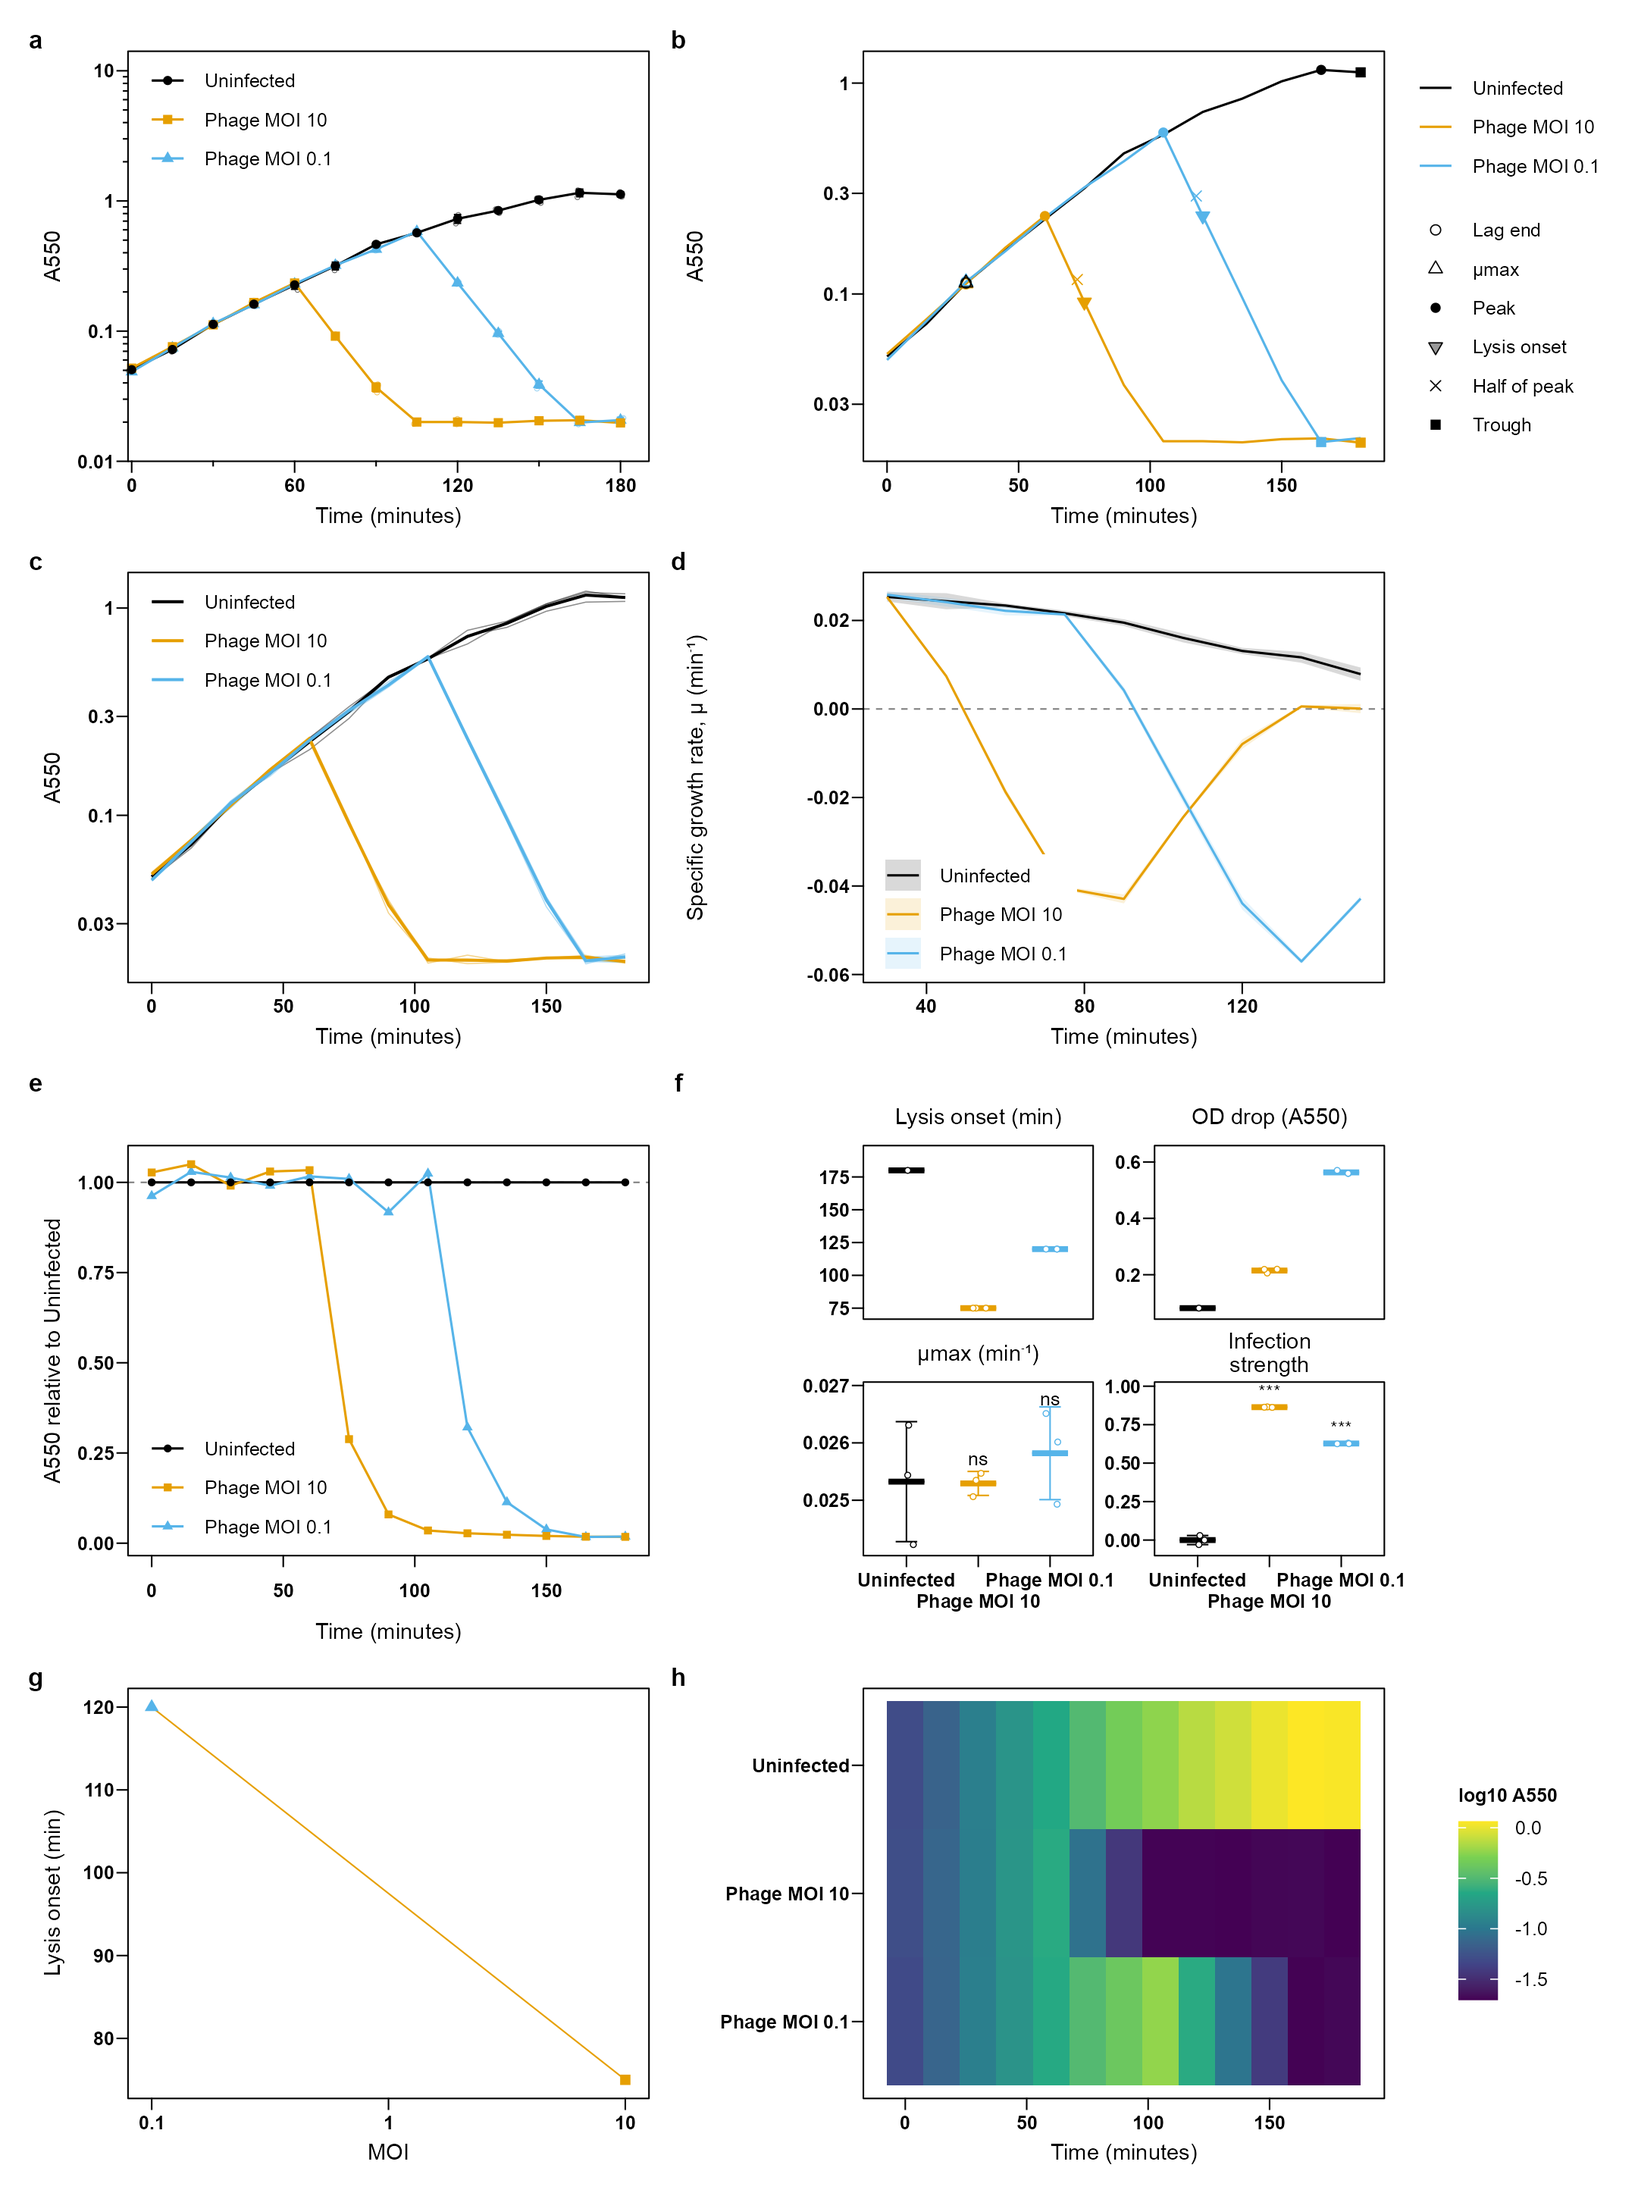
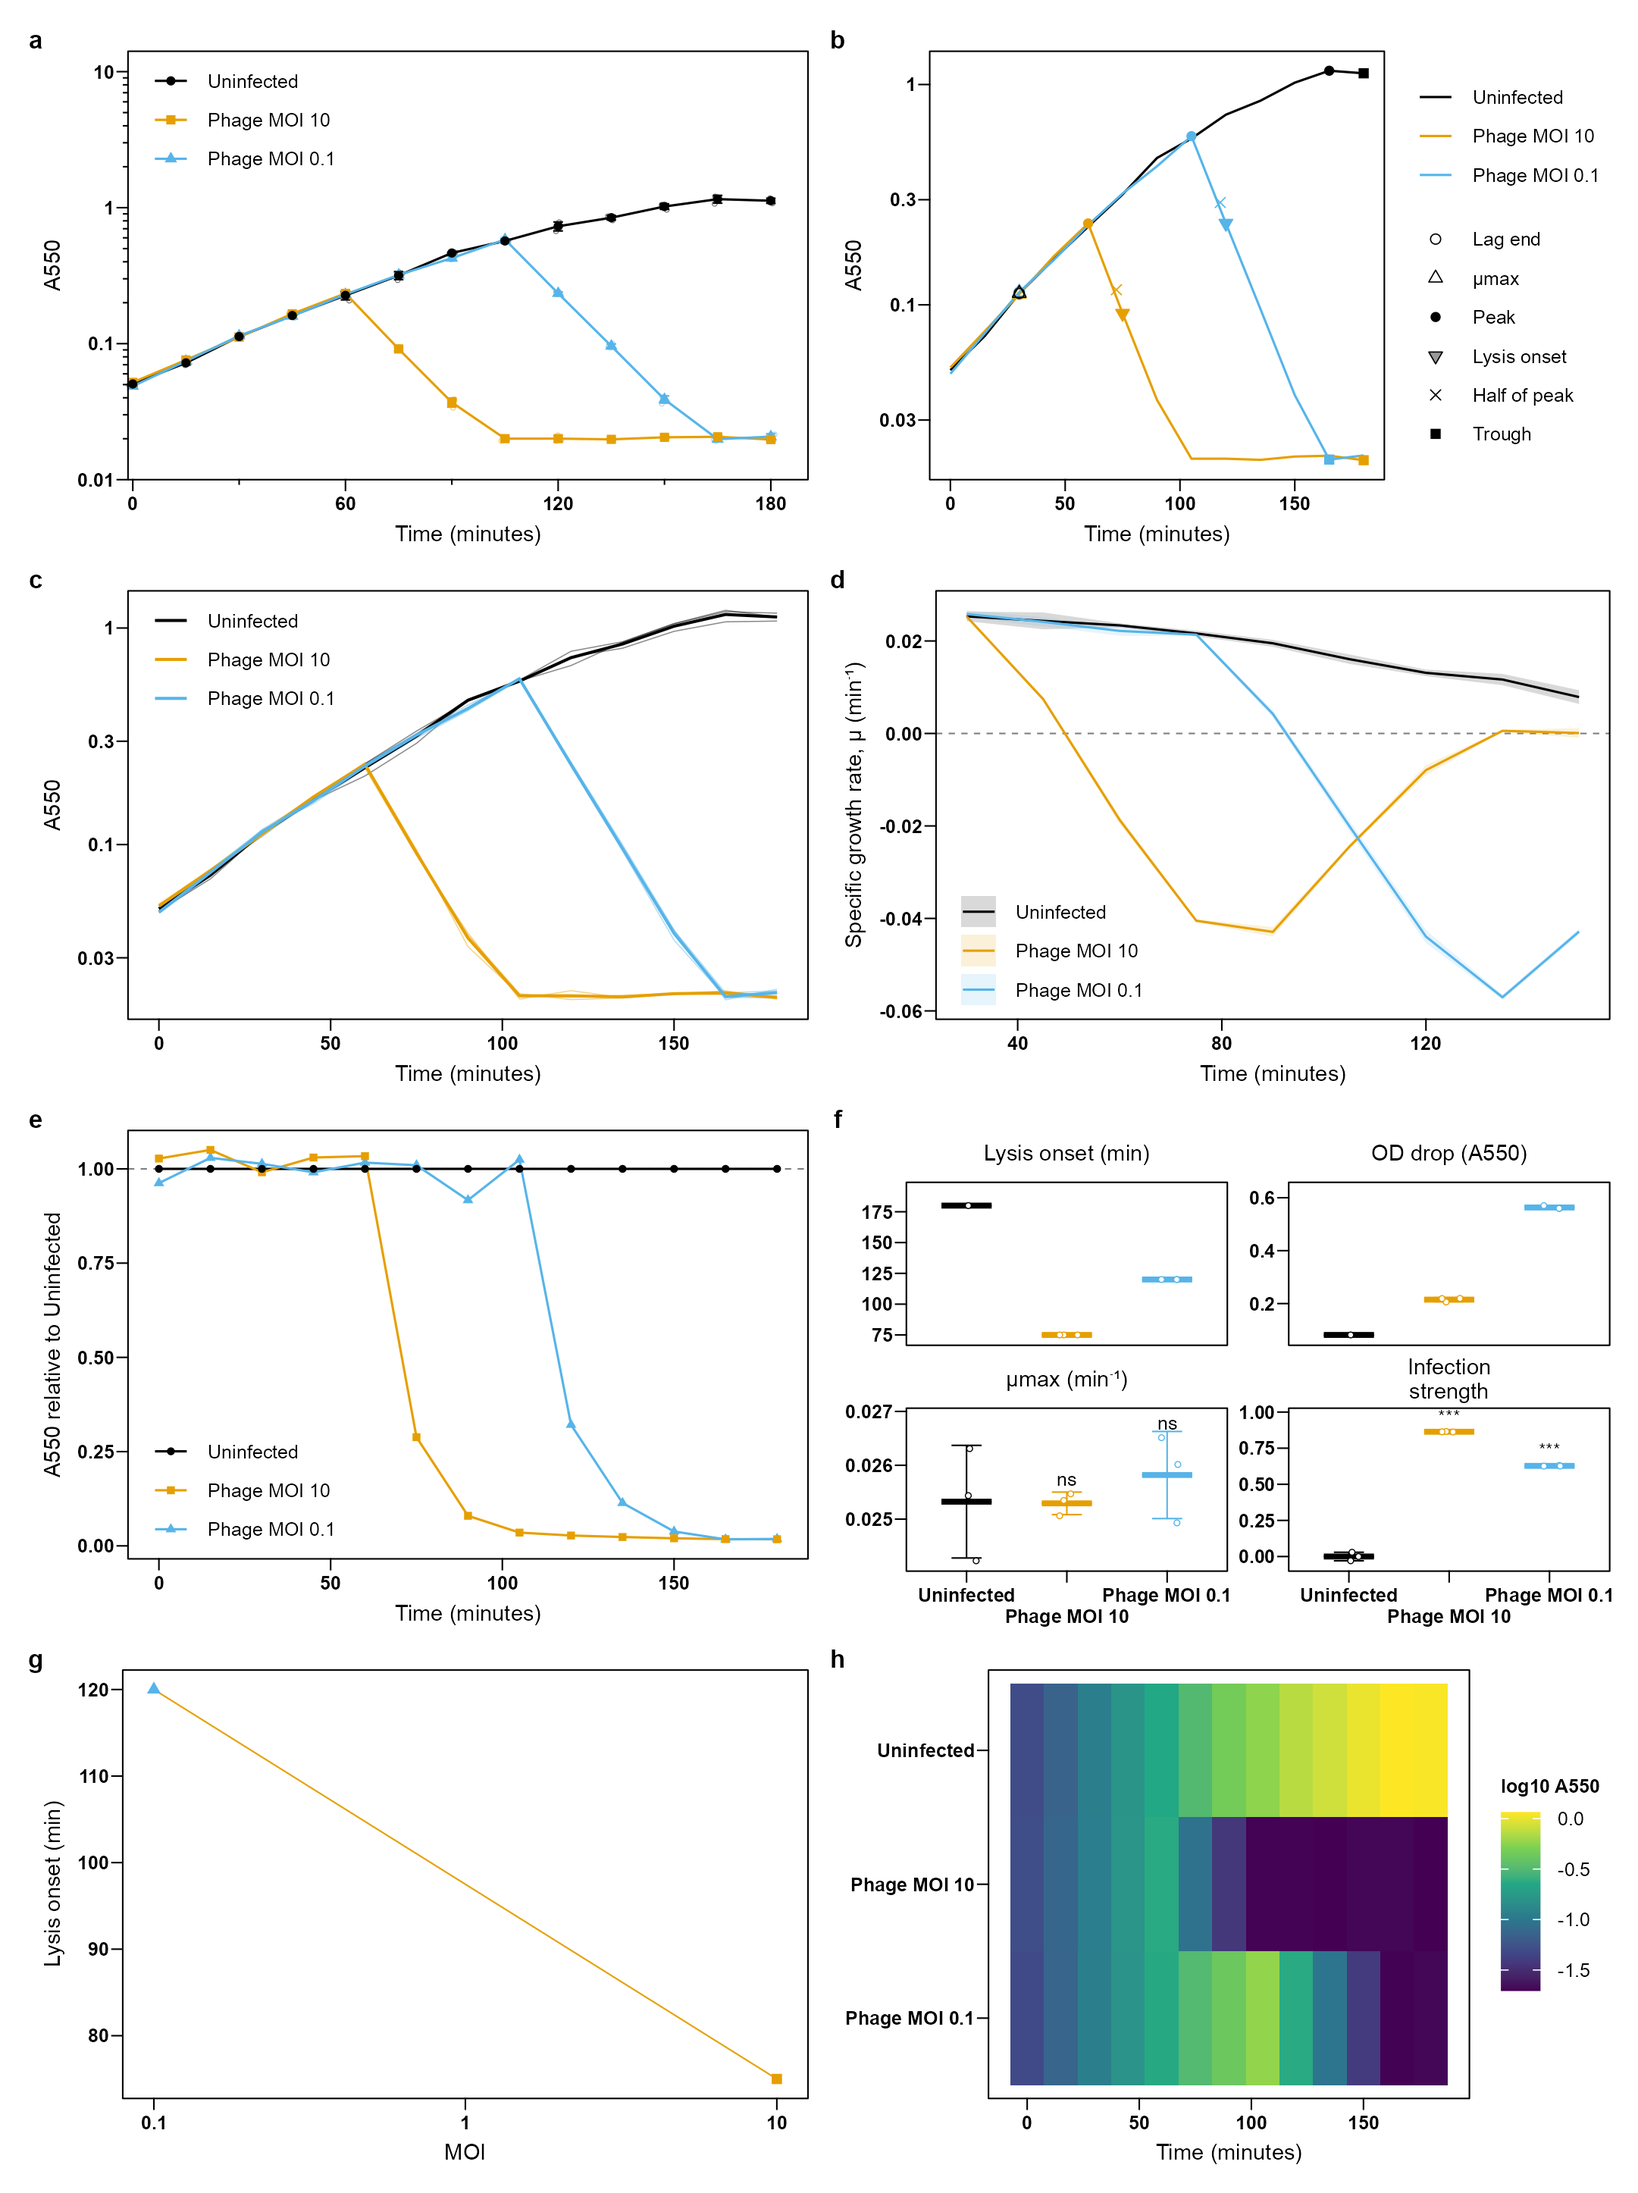
Legend fallback, first-peak threshold, gallery alignment (v2.12.3)
Inside-auto legends fall back to "right" above 4 entries or when the
emptiest corner box still overlaps the data (counted along the lines).
first_local peak mode needs a > 10 % decline so plateau noise is not read as
lysis. Gallery panels are wrapped in patchwork::free() so the rotated metric
summary labels no longer open a gap, and the resistance scenario uses a
3-point peak smoothing window. Docs: mu_max note for regrowth curves.

diff --git a/README.md b/README.md
@@ -220,8 +220,8 @@ never rescale it afterwards. Expand **Journal Figure Preset**:
    widths in pt, tick length in mm and the panel label), then **Download
    Image**. The legend position **Inside: emptiest corner (auto)**, which the
    preset selects, puts the key in the corner of the panel with the fewest
-   plotted points and moves it outside (right) when there are more than five
-   entries. **Save Settings** keeps the result as a reusable style.
+   plotted points and moves it outside (right) when there are more than four
+   entries or when even the emptiest corner still overlaps data. **Save Settings** keeps the result as a reusable style.
 5. Copy the **Figure Legend Text** into the manuscript: it already states the
    measure, the curves, *n*, the error statistic, and the MOI / host / phage /
    medium you entered in the Experiment Notebook.
@@ -327,7 +327,7 @@ Expand the **Stats & Reports** section in the sidebar. Everything here reflects 
 ### Statistics Export
 
 - **Summary Statistics (CSV)** — per sample and time point: mean, SD, n, SEM, and the 95% CI half-width (computed as t₀.₉₇₅,ₙ₋₁ × SEM). `n` counts only non-missing replicate values.
-- **Curve Metrics (CSV)** — per-sample growth & lysis metrics using the **same engine as the lysis-paper companion app** (verified to reproduce its numbers by an automated parity suite): initial/max/final OD and their times, the curve's global minimum, AUC (trapezoidal), **μmax** (centered rolling-window regression on ln OD; window adjustable, default 5 points; non-positive OD readings are excluded from a window rather than clamped), **doubling time**, **lag phase** (first time the rolling slope reaches 10% of μmax), **stationary-phase duration**, **lysis onset** (first post-peak decline > 5% of peak), **lysis rate** (regression slope peak→trough), **OD drop**, **residual OD**, **recovery slope**, lysis efficiency, recovery ratio, fold change, % drop from max, time to half-max after peak, and steepest point-to-point decline. Metrics that don't apply (e.g. doubling time for a curve that never grows) are reported as `NA`, never fabricated. This runs on the *mean* curve — one number per sample, with no replicate-to-replicate uncertainty. An optional **peak-detection smoothing window** (off by default) stabilizes the peak-anchored metrics against replicate noise; see [docs/METRICS_REFERENCE.md](docs/METRICS_REFERENCE.md) for why that matters. The **Peak used for lysis metrics** control (default: global maximum) can instead use the first peak that is followed by a > 5 % decline, which is what regrowth / resistance curves need (the global maximum is the late regrowth there, so lysis onset and OD drop come out `NA`).
+- **Curve Metrics (CSV)** — per-sample growth & lysis metrics using the **same engine as the lysis-paper companion app** (verified to reproduce its numbers by an automated parity suite): initial/max/final OD and their times, the curve's global minimum, AUC (trapezoidal), **μmax** (centered rolling-window regression on ln OD; window adjustable, default 5 points; non-positive OD readings are excluded from a window rather than clamped), **doubling time**, **lag phase** (first time the rolling slope reaches 10% of μmax), **stationary-phase duration**, **lysis onset** (first post-peak decline > 5% of peak), **lysis rate** (regression slope peak→trough), **OD drop**, **residual OD**, **recovery slope**, lysis efficiency, recovery ratio, fold change, % drop from max, time to half-max after peak, and steepest point-to-point decline. Metrics that don't apply (e.g. doubling time for a curve that never grows) are reported as `NA`, never fabricated. This runs on the *mean* curve — one number per sample, with no replicate-to-replicate uncertainty. An optional **peak-detection smoothing window** (off by default) stabilizes the peak-anchored metrics against replicate noise; see [docs/METRICS_REFERENCE.md](docs/METRICS_REFERENCE.md) for why that matters. The **Peak used for lysis metrics** control (default: global maximum) can instead use the first peak that is followed by a > 10 % decline, which is what regrowth / resistance curves need (the global maximum is the late regrowth there, so lysis onset and OD drop come out `NA`); a 3-point peak-detection smoothing window is recommended with it.
 - **Per-Replicate Metrics, mean ± SD (CSV)** — the *same* metrics engine run once per individual replicate curve, then reported as mean ± SD across replicates, alongside (not instead of) the mean-curve metrics above. These two are not interchangeable — see [docs/METRICS_REFERENCE.md](docs/METRICS_REFERENCE.md#per-replicate-metrics-optional-additive--per-replicate-metrics-mean--sd-csv).
 - **Infection metrics** — pick your uninfected control in *Reference sample* to add the five reference-normalized metrics: relative growth (AUC ratio), infection strength (1 − AUC ratio), relative μmax, relative max OD, and lysis-onset Δ from lag. *(Note: the reference implementation in the companion app has an `ifelse()` recycling bug that assigns the first sample's relative values to every sample; this app computes each sample's own ratio correctly.)*
 

diff --git a/docs/METRICS_REFERENCE.md b/docs/METRICS_REFERENCE.md
@@ -34,15 +34,20 @@ A curve that lyses and then regrows above its first peak (resistant mutants)
 has its global maximum at the end, so `lysis_time`, `od_drop`,
 `t_half_max_decline` and the other peak-anchored metrics are NA, and the
 landmarks figure marks the wrong peak. With **Peak used for lysis metrics =
-First peak before a > 5 % decline** (`peak_mode = "first_local"`), `max_idx`
+First peak before a > 10 % decline** (`peak_mode = "first_local"`), `max_idx`
 is the first index `i` such that `peak_vec[i]` is the running maximum, a later
-point falls below 95 % of `peak_vec[i]`, and the curve has not risen above
+point falls below 90 % of `peak_vec[i]`, and the curve has not risen above
 `peak_vec[i]` before that decline (without this last condition every point on
 the way up would qualify whenever the post-lysis trough is below the
 inoculum). If there is no such point the global maximum is used. Every
 downstream metric (lysis, `od_drop`, residual, recovery, `t_half_max_decline`)
 then uses that index unchanged, and `max_od` / `time_max_od` report it.
 `peak_vec` is the raw or smoothed curve exactly as for the smoothing option.
+The threshold is 10 %, not 5 %: replicate noise of about 4 % on a plateau
+produces single-point dips of more than 5 %, which at 5 % made the Uninfected
+replicates report a "lysis onset" late in the run. Combine the mode with a
+3-point peak-detection smoothing window (the gallery does for the resistance
+scenario).
 
 ## Curve metrics (per sample)
 
@@ -53,7 +58,7 @@ then uses that index unchanged, and `max_od` / `time_max_od` report it.
 | `max_od`, `time_max_od` | Peak and its time |
 | `global_min_od`, `time_global_min_od` | The curve's global minimum and its time — usually the inoculum, near `t_start`. **Not** the post-lysis floor; see `residual_od` for that. |
 | `auc` | Trapezoidal area under the mean curve |
-| `mu_max` | Largest centered rolling-window regression slope of ln(mean) vs time (window = smoothing setting, default 5 points; slopes must exceed 1e-10 so flat curves report NA). Any window touching a non-positive OD reading is excluded rather than clamped — see `n_nonpositive_od` below. |
+| `mu_max` | Largest centered rolling-window regression slope of ln(mean) vs time (window = smoothing setting, default 5 points; slopes must exceed 1e-10 so flat curves report NA). Any window touching a non-positive OD reading is excluded rather than clamped — see `n_nonpositive_od` below. It is the maximum anywhere on the curve, so on a regrowth curve it can come from the regrowth phase rather than the first growth (the resistant demo curve shows μmax at about 180 min); the landmarks figure draws it where it was found. |
 | `n_nonpositive_od` | Count of time points with OD ≤ 0 (e.g. a blank-subtraction artefact). Windows touching one of these contribute no `mu_max` slope; `mu_max`/`doubling_time`/`lag_phase` may be NA or based on fewer windows when this is > 0. |
 | `doubling_time` | `ln(2)/mu_max`; NA without growth |
 | `lag_phase` | First time the rolling ln-slope reaches 10% of `mu_max` |

diff --git a/CHANGELOG.md b/CHANGELOG.md
@@ -1,5 +1,32 @@
 # Changelog
 
+## v2.12.3 — 2026-10-19
+
+Review round 3. Default main-figure output unchanged; everything is opt-in.
+
+- **Legend fallback**: `inside-auto` now falls back to a right legend above
+  4 entries (was 5) and also when the emptiest corner box still holds the
+  equivalent of 2 or more data points. Points are counted along the lines
+  (8 interpolated points per segment, divided back to data-point equivalents),
+  so a steep segment crossing the corner between two sparse points counts.
+  Corner box: 9 % of the panel height per entry, 22 % + 1.7 % per label
+  character of the width.
+- **First-peak threshold**: peak mode `first_local` needs a decline of more
+  than 10 % (was 5 %); 4 % plateau noise no longer counts as a peak followed
+  by lysis. Label, definitions, README and METRICS_REFERENCE updated; a 3-point
+  peak-detection smoothing window is recommended with it (the gallery sets it
+  for `resistance`). A replicate whose own plateau maximum is followed by a
+  > 5 % dip still reports the engine's lysis onset: peak mode chooses the
+  peak, not the lysis definition.
+- **Gallery alignment**: every panel is wrapped in `patchwork::free()`, so the
+  45-degree labels of the metric summary no longer open a gap under the x axis
+  of the panels beside it, and outside-legend panels no longer squeeze the
+  panels beside them.
+- **docs**: METRICS_REFERENCE notes that μmax is the maximum rolling slope
+  anywhere on the curve (on a regrowth curve it can come from the regrowth).
+- Tests: collision fallback, interpolation, 5-entry fallback, 6 % vs 15 %
+  plateau dip, replicate peaks on the resistance demo with smoothing.
+
 ## v2.12.2 — 2026-10-19
 
 Review round on the gallery figures. All changes are opt-in or limited to

diff --git a/docs/FIGURE_STANDARDS.md b/docs/FIGURE_STANDARDS.md
@@ -20,7 +20,7 @@ manuscript without re-editing every figure.
 | Points | 1.2 (≈1 mm) | legible at 89 mm without hiding error bars |
 | Tick length | 1.2 mm | compact, proportionate to 6 pt labels |
 | Colours | Okabe–Ito (Black, Orange, Sky blue, Bluish green, Yellow, Blue, Vermillion, Reddish purple) | the exact palette Nature's figure guide lists as colour-blind friendly |
-| Legend | inside the panel in the emptiest corner (auto), no box border; outside right when there are more than 5 entries | journal panels rarely spend column width on an outside key; the corner with the fewest plotted points keeps the key off the data (top-left for a typical growth/lysis plot) |
+| Legend | inside the panel in the emptiest corner (auto), no box border; outside right when there are more than 4 entries or the emptiest corner still overlaps data | journal panels rarely spend column width on an outside key; the corner with the fewest plotted points keeps the key off the data (top-left for a typical growth/lysis plot) |
 | Spacing base size | 7 pt | margins and gaps scale with the theme's base size; the default 14 pt looks oversized next to 6–7 pt text |
 | Y tick labels | 0.01, 0.1, 1 (trailing zeros trimmed) | reads like a published log axis |
 | Error caption on the artwork | off | the measure and *n* go in the **Figure Legend Text** box (and the manuscript legend), not on the panel |
